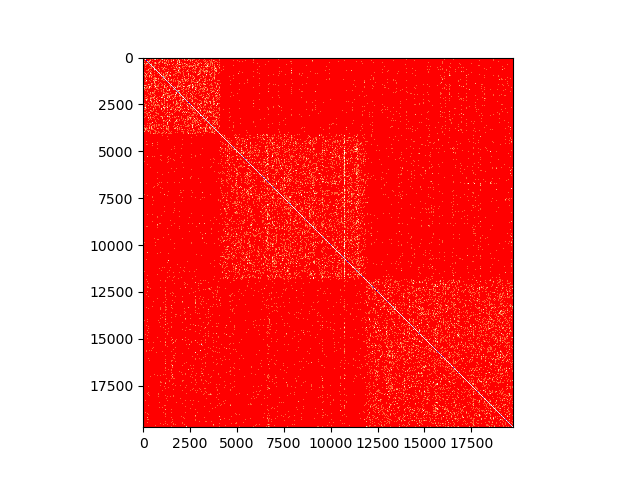
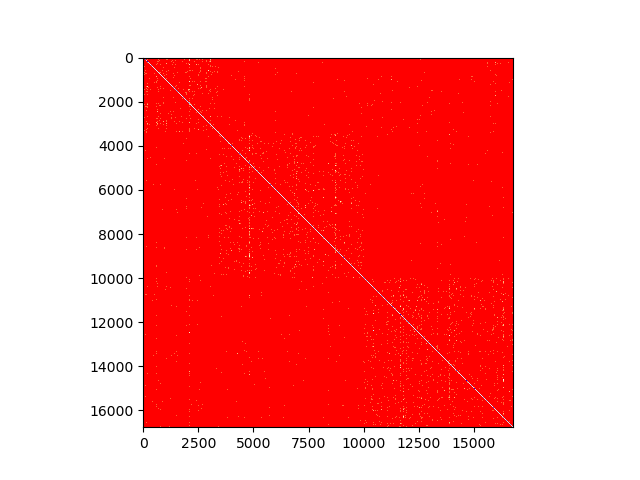
-

diff --git a/src/SpectralTrainer.py b/src/SpectralTrainer.py
@@ -309,14 +309,14 @@ class SpectralTrainer:
                 W = self._get_support_matrix(support_b)
                 W = W[perm][:, perm]
                 
-                # W_ = W.detach().cpu().numpy()
-                # W_[W_ > 0] = 1
-                # L = sort_laplacian(W_, y_train_b[perm])
-                # import matplotlib.pyplot as plt
-                # plt.imshow(L, cmap='hot', norm=colors.LogNorm())
-                # plt.imshow(L, cmap='flag')
-                # plt.show()
-                # plt.savefig('block_diagonal.png')
+                W_ = W.detach().cpu().numpy()
+                W_[W_ > 0] = 1
+                L = sort_laplacian(W_, y_train_b[perm])
+                import matplotlib.pyplot as plt
+                plt.imshow(L, cmap='hot', norm=colors.LogNorm())
+                plt.imshow(L, cmap='flag')
+                plt.show()
+                plt.savefig('block_diagonal.png')
                 
 
                 Y = self.spectral_net(features_b, should_update_orth_weights=False)
@@ -328,14 +328,15 @@ class SpectralTrainer:
                         features_b = self.siamese_net.forward_once(features_b)
                 
                 W_2 = self._get_affinity_matrix(features_b)
+                # W_2 = utils.get_affinity_matrix(features_b)
                 
-                # W_2_ = W_2.detach().cpu().numpy()
+                W_2_ = W_2.detach().cpu().numpy()
+                # W_2_ = np.log(W_2_ + 1)
                 # W_2_[W_2_ > 0] = 1
-                # L = sort_laplacian(W_2_, y_train_b[perm])
-                # plt.imshow(L, cmap='hot', norm=colors.LogNorm())
-                # plt.imshow(L, cmap='flag')
-                # plt.show()
-                # plt.savefig('block_diagonal_2.png')
+                W_2_ = sort_laplacian(W_2_, y_train_b[perm])
+                plt.imshow(W_2_, cmap='hot', norm=colors.LogNorm())
+                plt.show()
+                plt.savefig('block_diagonal_2.png')
                 
                 
                 # W = 0.1* W + 0.9 *  W_2
@@ -343,14 +344,14 @@ class SpectralTrainer:
                 # W = 0.1* (W @ W) + 0.9 *  (W_2)
                 
                 W[W > 0] = 1
-                W = F.normalize(W, p=2, dim=1)
+                # W = F.normalize(W, p=2, dim=1)
                 # W_2[W_2 > 0] = 1
                 
                 
                 
                 W = W + W_2
                 # normalize
-                W = F.normalize(W, p=2, dim=1)
+                # W = F.normalize(W, p=2, dim=1)
                 
 
 
@@ -699,8 +700,6 @@ class SpectralTrainer:
         Dis, indices = get_nearest_neighbors(X, k=n_neighbors + 1)
         scale = compute_scale(Dis, k=scale_k, is_local=is_local)
         W = get_gaussian_kernel(Dx, scale, indices, device=self.device, is_local=is_local)
-        # normalize
-        W = F.normalize(W, p=2, dim=1)
         return W
 
     def matrix_from_dict(self, indices):

diff --git a/src/main.py b/src/main.py
@@ -92,7 +92,7 @@ def main():
     
     (train_adj, full_adj, train_feats, test_feats, y_train, y_val, y_test,
      train_mask, val_mask, test_mask, _, val_data, test_data, num_data,
-     visible_data) = load_data('/data', dataset, True)
+     visible_data) = load_data('/data', dataset, False)
 
     try:
         parts = torch.load(f'./cached_partition/{dataset}/{SEED}/parts.pt')
@@ -145,7 +145,7 @@ def main():
     
 
     
-    # print('mean degree:', np.mean(np.sum(A, axis=1)))
+    # # print('mean degree:', np.mean(np.sum(A, axis=1)))
     
     A = torch.tensor(A, dtype=torch.float32)
     X = torch.tensor(train_feats, dtype=torch.float32)
@@ -153,33 +153,39 @@ def main():
     W = utils.get_affinity_matrix(X)
     
     # W = W + A
-    # W[W > 0] = 1
-    # W = A
-    W = F.normalize(W, p=1, dim=1)
+    # # W[W > 0] = 1
+    # # W = A
+    # W = F.normalize(W, p=1, dim=1)
+    W = sort_laplacian(W, y_train)
+    # # D = torch.diag(torch.sum(W, dim=1))
+    # # L = D - W
+    # # L = L.numpy()
     
-    D = torch.diag(torch.sum(W, dim=1))
-    L = D - W
-    L = L.numpy()
-    eigvals, eigvecs = eigsh(L, k=10, which='SM')
-    print(eigvals)
-    kmeans = KMeans(n_clusters=n_clusters, random_state=SEED)
-    kmeans.fit(eigvecs)
-    cluster_labels = kmeans.labels_
-    
-    metrics = Metrics()
-    
-    nmi = metrics.nmi_score(cluster_labels[train_mask], y_train[train_mask])
-    acc = metrics.acc_score(cluster_labels[train_mask], y_train[train_mask], n_clusters)
-    print(f'NMI: {nmi}, ACC: {acc}')
-    exit()
-    
-    L = sort_laplacian(W, y_train)
-    
-    plt.imshow(L, cmap='hot', norm=colors.LogNorm())
-    plt.imshow(L, cmap='flag')
+    plt.imshow(W, cmap='hot', norm=colors.LogNorm())
     plt.show()
-    plt.savefig('block_diagonal.png')
+    plt.savefig('laplacian.png')
+    
+    
+    # eigvals, eigvecs = eigsh(W, k=10, which='SM')
+    # print(eigvals)
+    # kmeans = KMeans(n_clusters=n_clusters, random_state=SEED)
+    # kmeans.fit(eigvecs)
+    # cluster_labels = kmeans.labels_
+    
+    # metrics = Metrics()
+    
+    # nmi = metrics.nmi_score(cluster_labels[train_mask], y_train[train_mask])
+    # acc = metrics.acc_score(cluster_labels[train_mask], y_train[train_mask], n_clusters)
+    # print(f'NMI: {nmi}, ACC: {acc}')
     # exit()
+    
+    # L = sort_laplacian(W, y_train)
+    
+    # plt.imshow(L, cmap='hot', norm=colors.LogNorm())
+    # plt.imshow(L, cmap='flag')
+    # plt.show()
+    # plt.savefig('block_diagonal.png')
+    # # exit()
     
     spectralnet = SpectralNet(n_clusters=n_clusters, config=config)
     spectralnet.fit(train, val)

diff --git a/src/SpectralNet.py b/src/SpectralNet.py
@@ -81,7 +81,7 @@ class SpectralNet:
             X = self.ae_net.encoder(X)
         X = X.to(self.device)
         self.embeddings_ = self.spec_net(X, should_update_orth_weights = False).detach().cpu().numpy()
-        self.embeddings_ = self.embeddings_ @ self.spec_net.rotation_matrix
+        # self.embeddings_ = self.embeddings_ @ self.spec_net.rotation_matrix
         
         # cluster_assignments = self._get_clusters_by_kmeans(self.embeddings_)
         # return cluster_assignments

diff --git a/src/utils.py b/src/utils.py
@@ -692,8 +692,8 @@ def get_affinity_matrix(X: torch.Tensor) -> torch.Tensor:
         torch.Tensor: Affinity matrix W
     """
     is_local = True
-    n_neighbors = 10
-    scale_k = 15
+    n_neighbors = 2
+    scale_k = 1
     Dx = torch.cdist(X,X)
     Dis, indices = get_nearest_neighbors(X, k=n_neighbors + 1)
     scale = compute_scale(Dis, k=scale_k, is_local=is_local)
